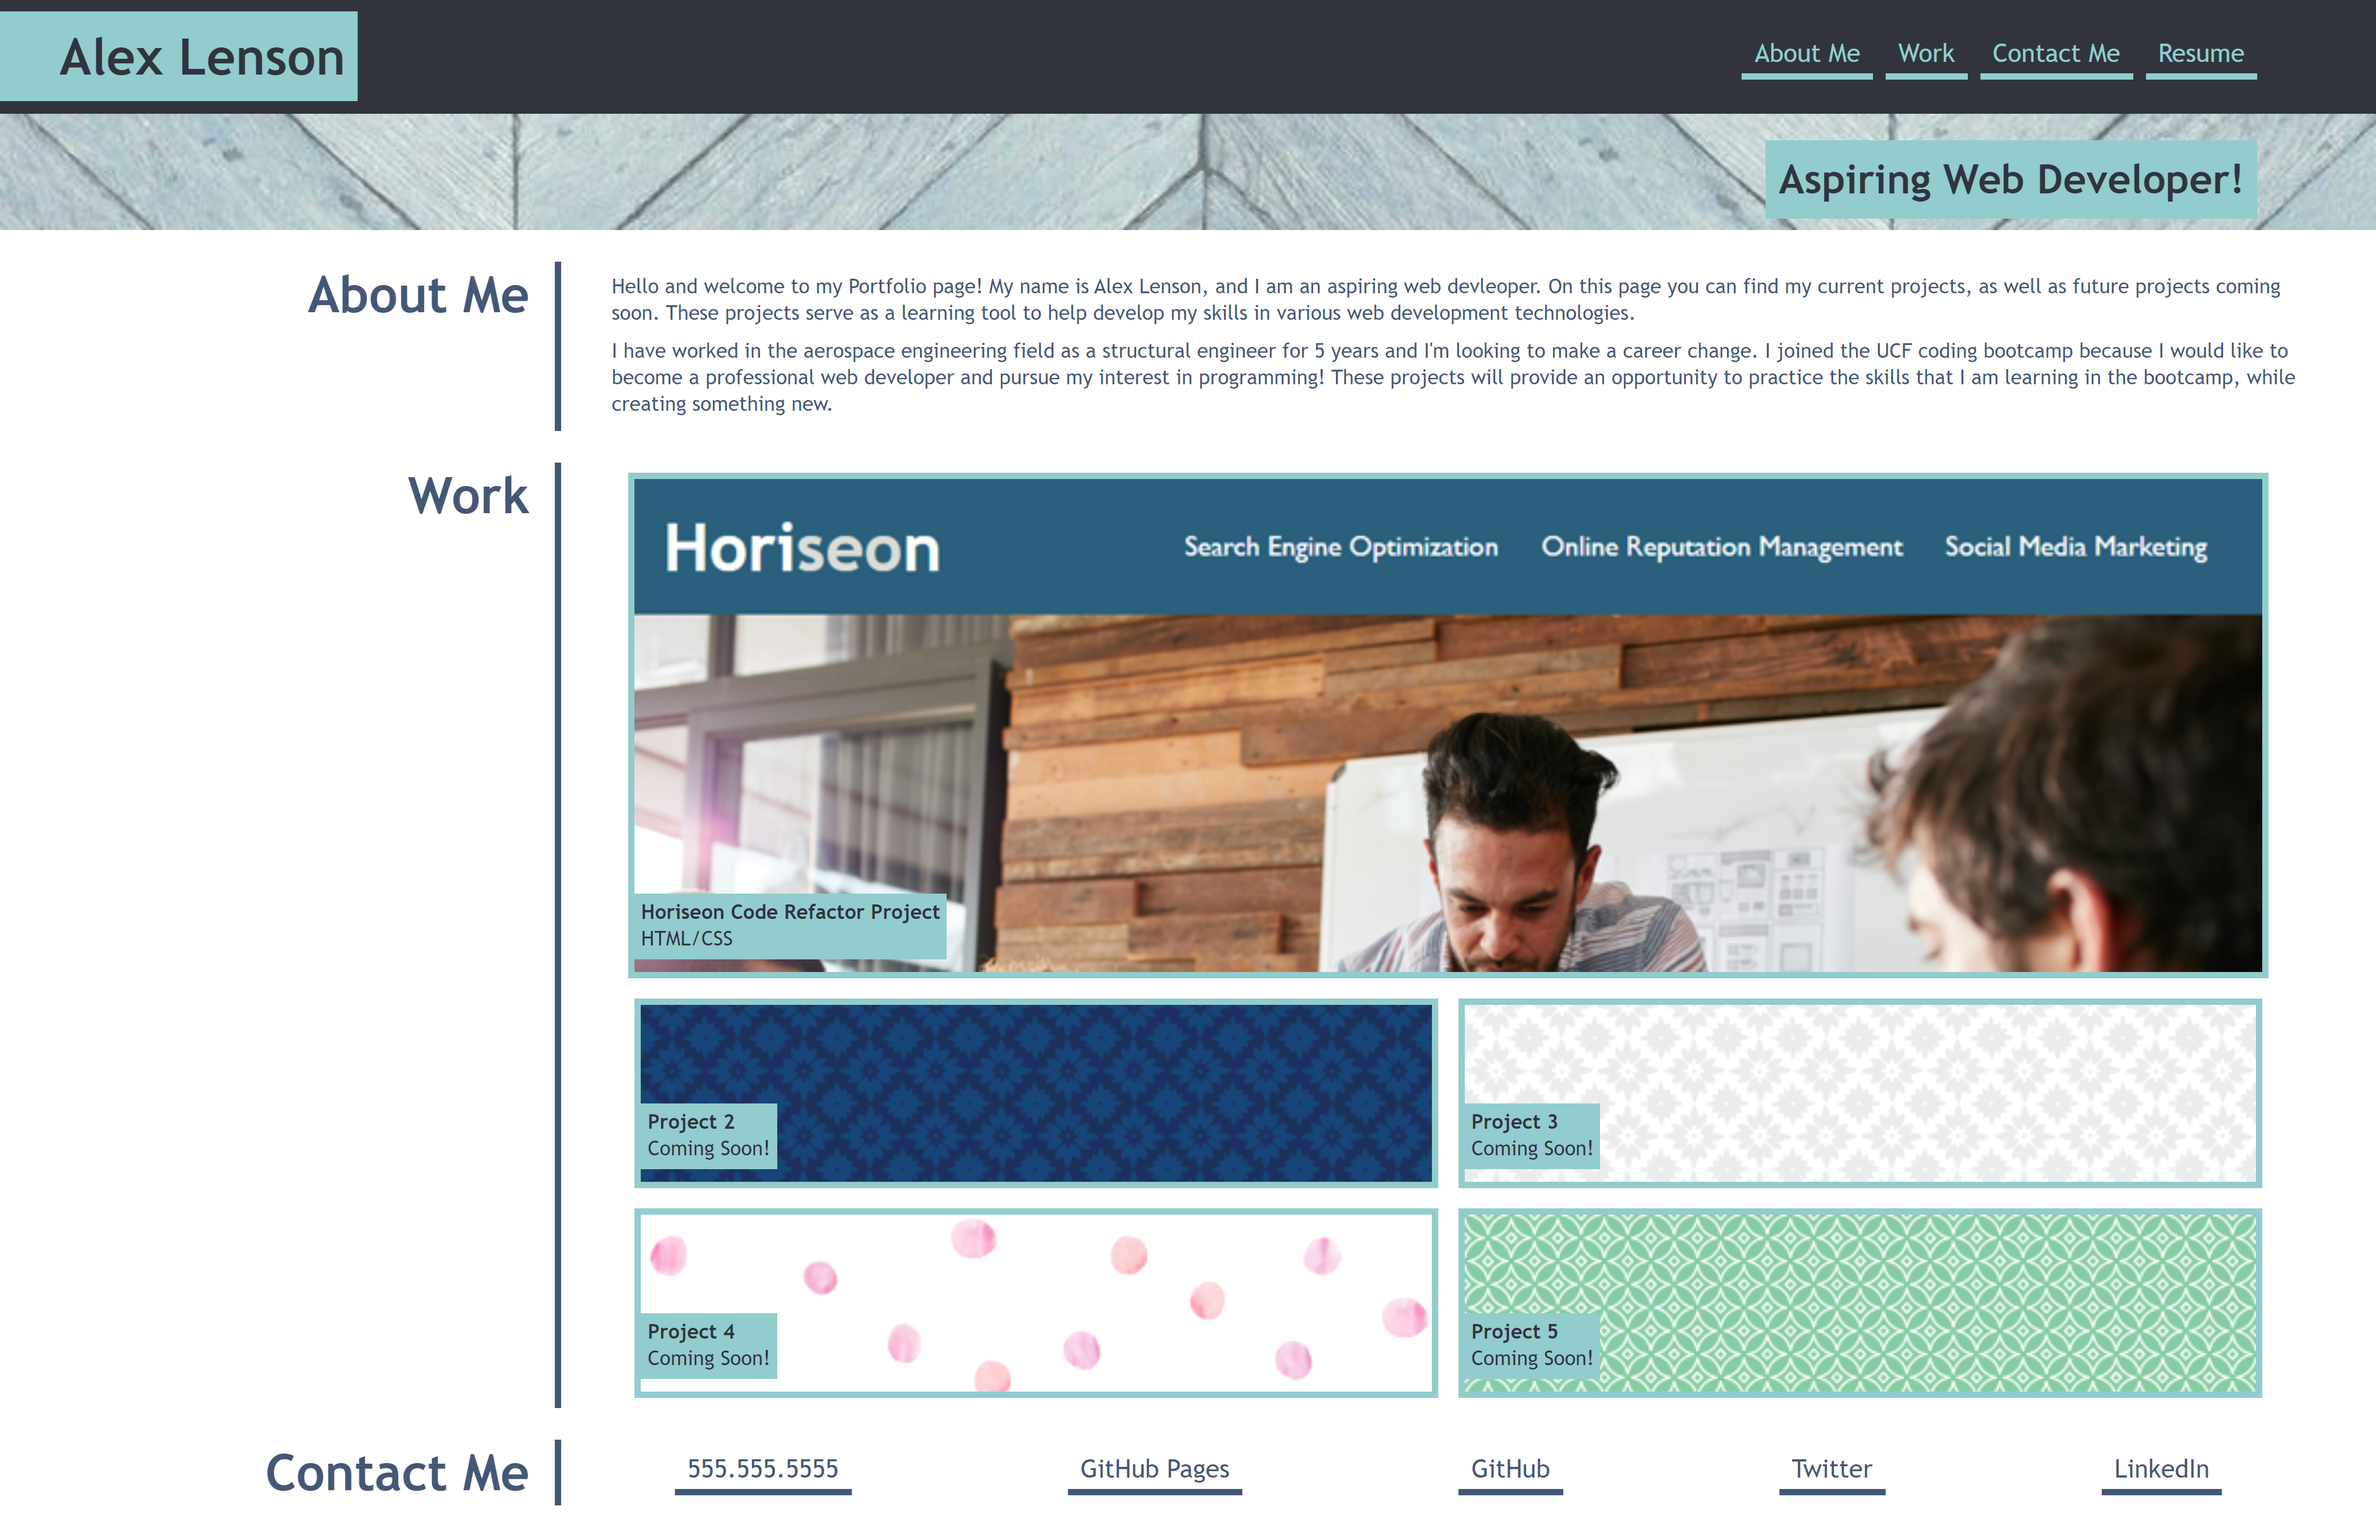
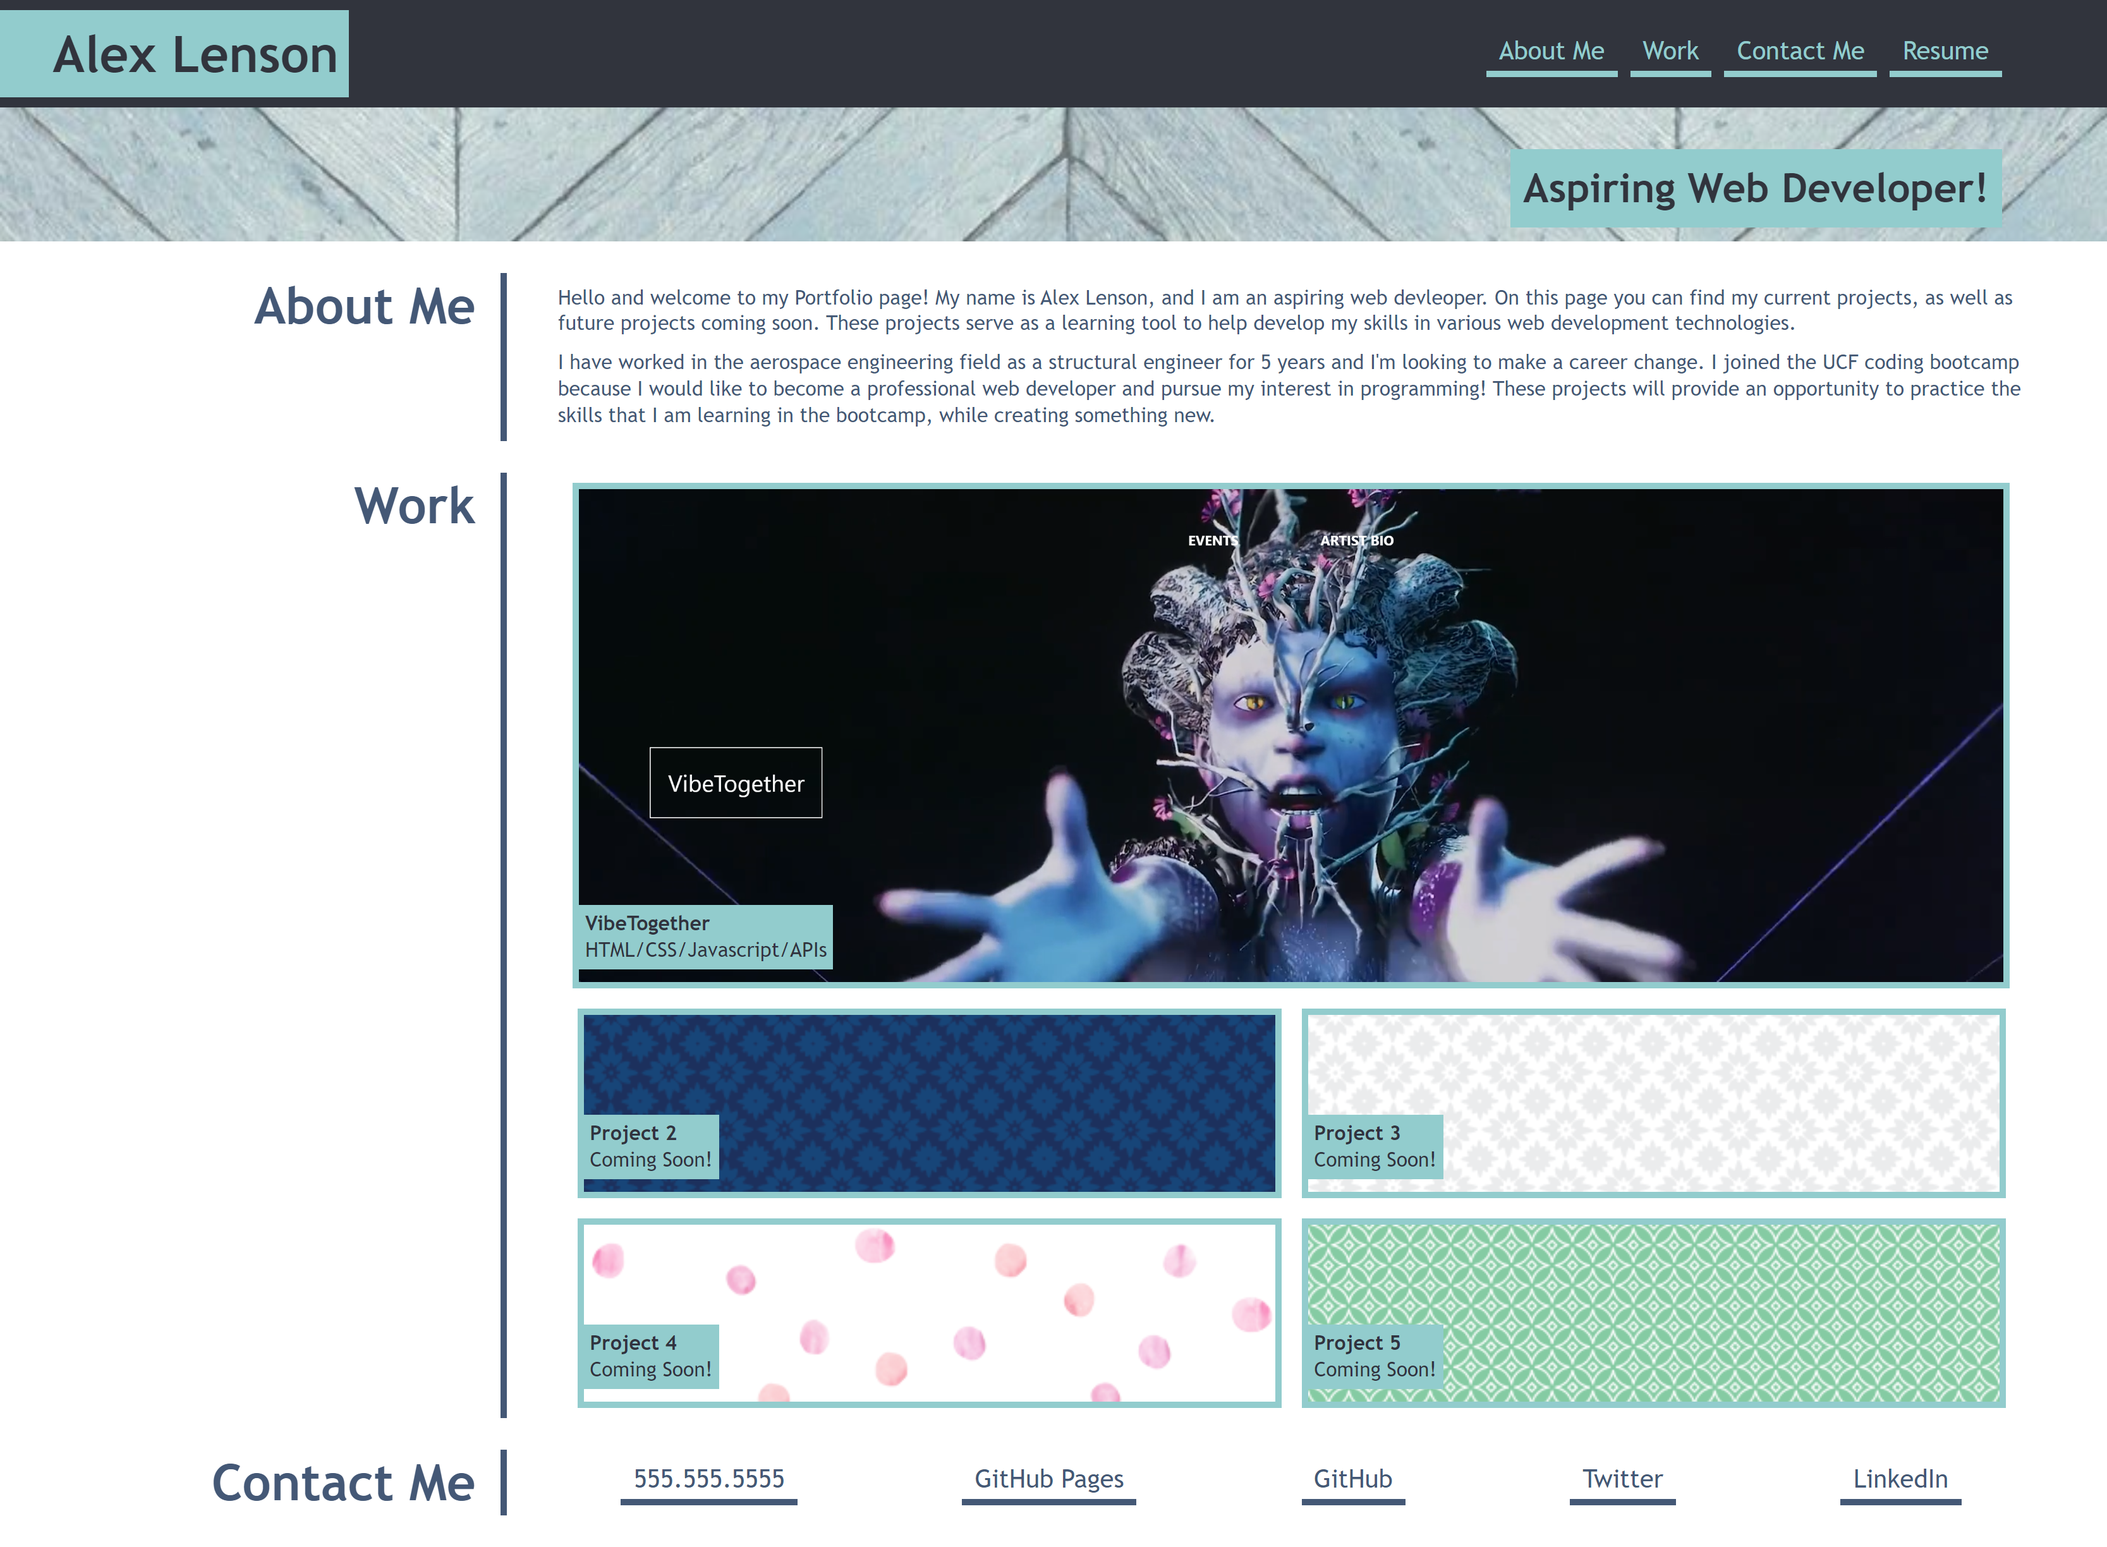
updated README with VibeTogether project

diff --git a/assets/css/style.css b/assets/css/style.css
@@ -162,7 +162,7 @@ nav {
     bottom: 10px;
 }
 
-/* Background image for Horiseon project */
+/* Background image for VibeTogether project */
 #VibeTogether {
     background-image: url('../images/VibeTogether.png');
 }
